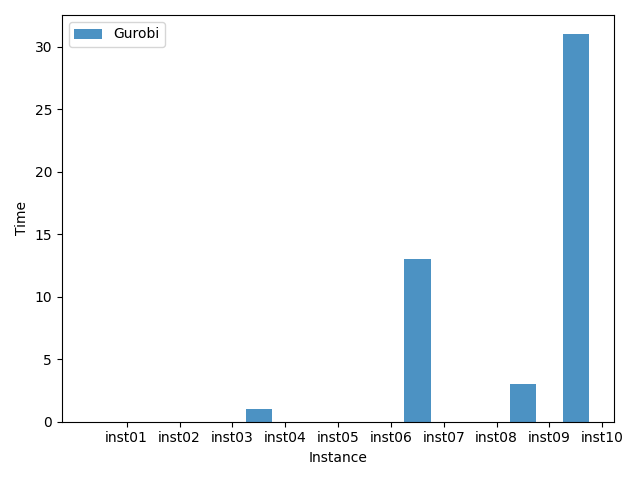
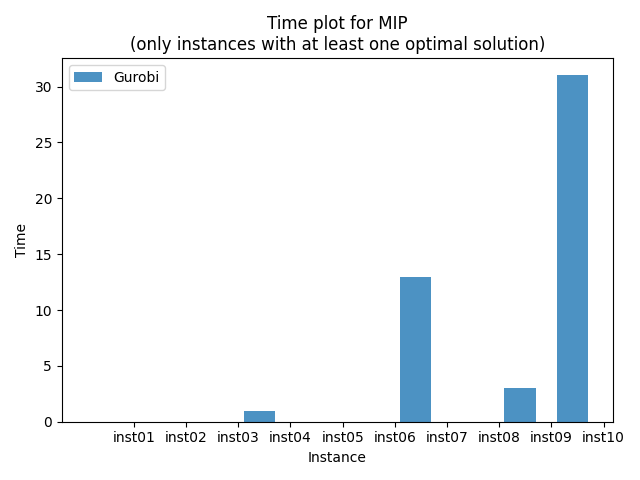
time plot maker for all models

diff --git a/time_plot_maker.py b/time_plot_maker.py
@@ -3,59 +3,58 @@ import json
 import matplotlib.pyplot as plt
 import numpy as np
 import sys
-# take input folder name from parameter 
-# (default value is 'output')
-if len(sys.argv) > 1:
-    folder = sys.argv[1]
+
+
+#iterate over all the folders in /res
+for folder in os.listdir("res/"):
     path="res/"+folder+"/"
-    #check that folder exists
-    if not os.path.isdir("res/"+folder+"/"):
-        print('Folder not found')
-        exit()
-else:
-    print('No folder name provided, usage: python graph_maker.py <folder_name>')
-    exit()
 
+    data = {}
 
-data = {}
+    for instance in os.listdir(path):
+        if instance.endswith('.json'):
+            with open(path+instance, 'r') as f:
+                data[instance] = json.load(f)
 
-for instance in os.listdir(path):
-    if instance.endswith('.json'):
-        with open(path+instance, 'r') as f:
-            data[instance] = json.load(f)
+    # Create a dictionary to store data
+    data_dict = {}
 
-# Create a dictionary to store data
-data_dict = {}
+    # Populate the dictionary with data
+    for instance in data:
+        for solver in data[instance]:
+            if solver not in data_dict:
+                data_dict[solver] = {'instances': [], 'times': []}
+            if data[instance][solver]['optimal']: #save result ONLY FOR OPTIMAL SOLUTIONS (remove if you want to save all results)
+                data_dict[solver]['instances'].append(str(instance).removesuffix('.json'))
+                data_dict[solver]['times'].append(data[instance][solver]['time'])
 
-# Populate the dictionary with data
-for instance in data:
-    for solver in data[instance]:
-        if solver not in data_dict:
-            data_dict[solver] = {'instances': [], 'times': []}
-        if data[instance][solver]['optimal']: #save result ONLY FOR OPTIMAL SOLUTIONS (remove if you want to save all results)
-            data_dict[solver]['instances'].append(str(instance).removesuffix('.json'))
-            data_dict[solver]['times'].append(data[instance][solver]['time'])
+    # Create a bar plot for each solver
+    # Calculate the number of solvers
+    num_solvers = len(data_dict.keys())
+    # Adjust the bar width based on the number of solvers
+    bar_width = 1.2 / (num_solvers + 1)
 
-# Create a bar plot for each solver
-# Calculate the number of solvers
-num_solvers = len(data_dict.keys())
-# Adjust the bar width based on the number of solvers
-bar_width = 1.0 / (num_solvers + 1)
+    opacity = 0.8
+    index = np.arange(len(data_dict[list(data_dict.keys())[0]]['instances']))
 
-opacity = 0.8
-index = np.arange(len(data_dict[list(data_dict.keys())[0]]['instances']))
+    for i, solver in enumerate(data_dict.keys()):
+        # Fill missing values with 300
+        if len(data_dict[solver]['times']) < len(index):
+            data_dict[solver]['times'].extend([300] * (len(index) - len(data_dict[solver]['times'])))
+        plt.bar(index + i * bar_width, data_dict[solver]['times'], bar_width, alpha=opacity, label=solver)
 
-for i, solver in enumerate(data_dict.keys()):
-    print(f"Length of index: {len(index)}")
-    print(f"Length of data_dict[solver]['times']: {len(data_dict[solver]['times'])}")
-    assert len(index) == len(data_dict[solver]['times'])
-    plt.bar(index + i * bar_width, data_dict[solver]['times'], bar_width, alpha=opacity, label=solver)
+    plt.xlabel('Instance')
+    plt.ylabel('Time')
+    plt.xticks(index + bar_width, data_dict[list(data_dict.keys())[0]]['instances'])
+    plt.legend()
+    plt.title('Time plot for ' + folder+"\n(only instances with at least one optimal solution)")
 
-plt.xlabel('Instance')
-plt.ylabel('Time')
-plt.xticks(index + bar_width, data_dict[list(data_dict.keys())[0]]['instances'])
-plt.legend()
+    plt.tight_layout()
+    plt.savefig('time_plots/time_plot_'+folder+'.png')  # Save the plot before showing it
+    print('time_plot_'+folder+'.png saved')
 
-plt.tight_layout()
-plt.savefig('time_plots/time_plot_'+folder+'.png')  # Save the plot before showing it
-plt.show()
+    #clear dictionaries and plot for next iteration
+    data_dict.clear()
+    data.clear()
+    plt.clf()
+
